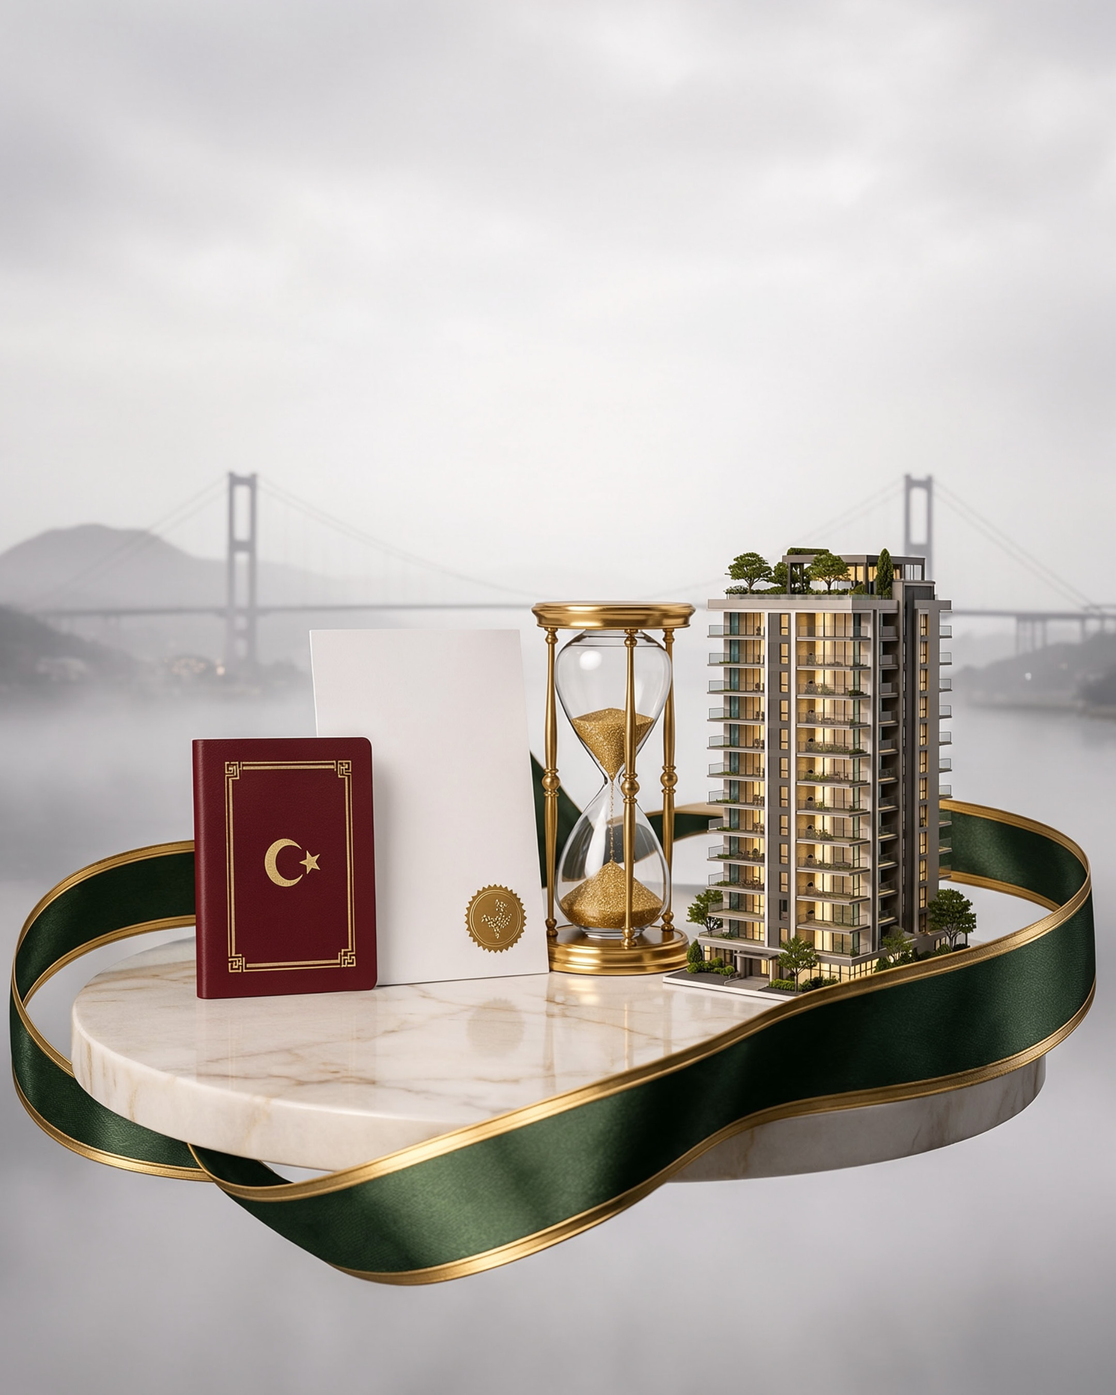
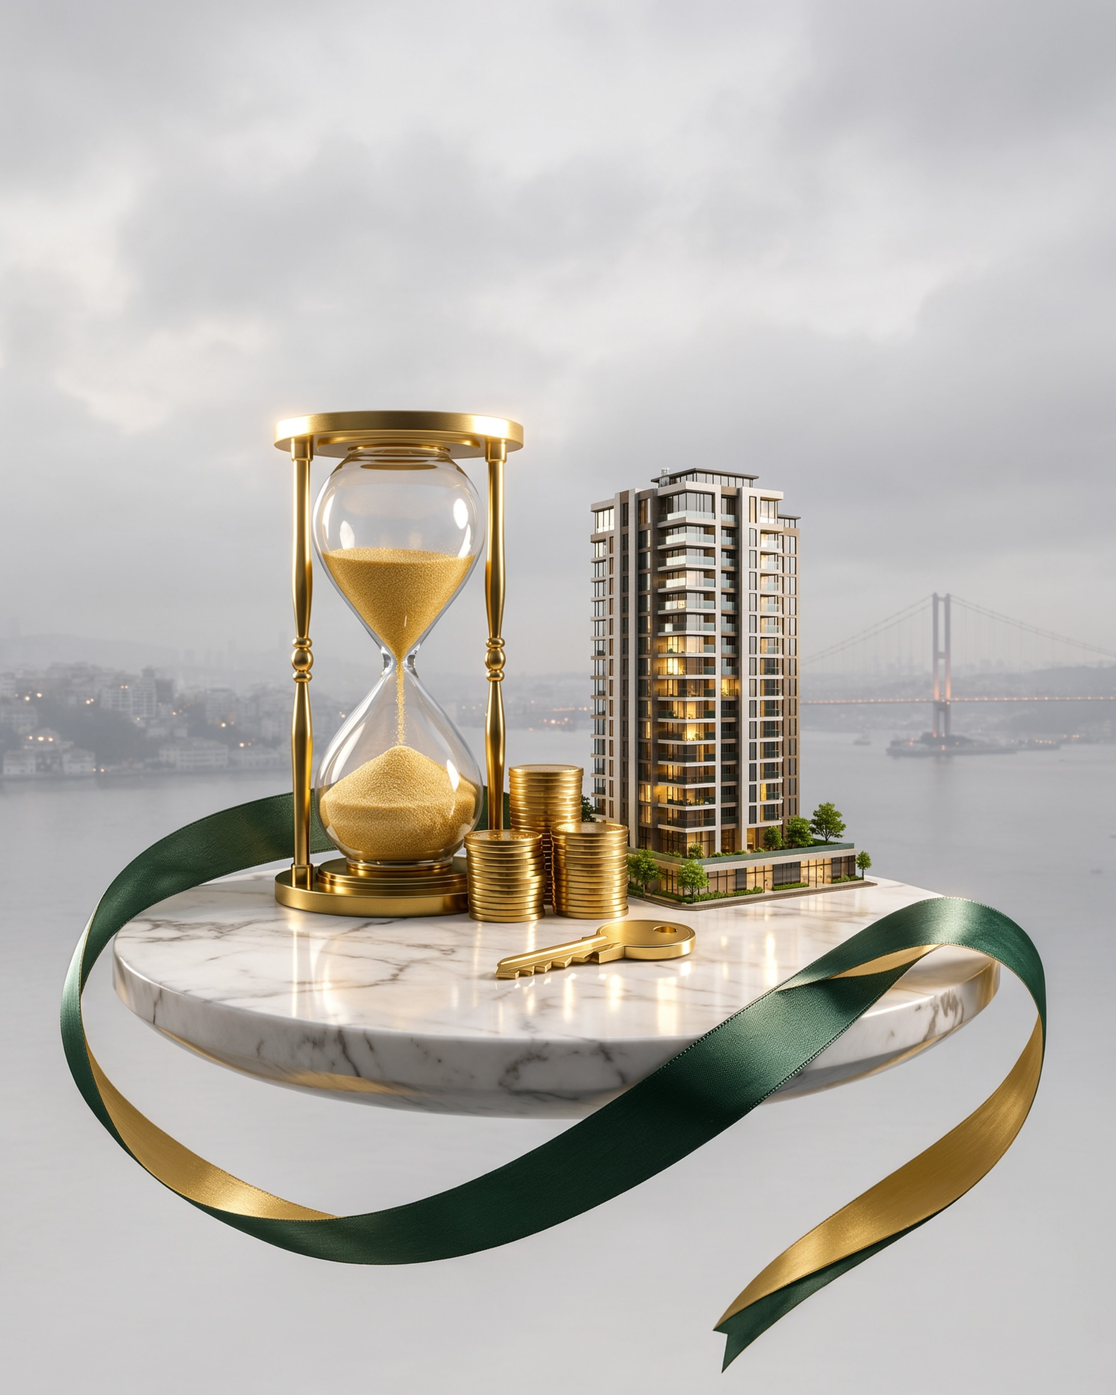
News posts: replace AI heroes that showed government documents
Owner's rule: no passports, title deeds, permits, seals, flags or
distorted currency symbols in AI images. Five heroes regenerated with
generic symbols; the tax hero's coin face smoothed. Rule added to the
news README and CLAUDE.md.

Claude-Session: https://claude.ai/code/session_01MgwYCFAPpF2XiPK7vaTHJc

diff --git a/CLAUDE.md b/CLAUDE.md
@@ -299,7 +299,7 @@
 - **منشور واحد باليوم بس (قرار المستخدم 2026-10-25: «خفف عدد المنشورات… منشور واحد كل صباح فقط»)**: من 2026-10-26 بس منشور الـ 09:00 (مشروع، تصميم A)، **بدون** منشور 14:00 ولا شرائح 21:00 ولا الستوري. `topics.mjs` صار يطلّع موضوع الصبح بس وبدون `story`، وREADME فيه سطر بأول «Steps for the daily session» بيغلب رسالة الـ Routine (`trig_01GoDvMMPVgdyFDvUQKze6jP` — تعليماته ما بتتعدّل إلا من جوّا الجلسة المخصصة، والجلسة بتاخد السكربتات من `main`). المراقبة `trig_01JpEtetfnowBWFdKXuguLNS` صارت مرة وحدة 9:20 («مراقبة منشور حضارة اليومي (الصبح)»). الـ crons تبع 14:00 و21:00 بالموقع ضلّوا وما بينشروا شي لما ما في منشور بوقتهم.
 - **ريلز كل صبح (قرار المستخدم 2026-10-28: «بدي اياك تنشر كل يوم ريلز الصبح، والمحتوى تنوع بين المشاريع والمحتوى التوعوي عن العقار وآلية الشراء والقوانين»؛ ✅ انتشر نفس اليوم بعد «انشر»، commit `260c339`)**: خطة جديدة `scripts/social/plan.json` «خطة المحتوى — نوفمبر 2026 (ريلز كل صباح)» من 2026-10-29 لـ 2026-11-30 (33 يوم، `reels: true`): منشور واحد 9:00 = **ريلز** (`"reel": true` بـ render.mjs: تصميم 1080×1920 + فيديو 8 ثواني تقريب بطيء بدون صوت؛ ffmpeg من `imageio-ffmpeg`)، يوم مشروع (16، تصميم A، أغلبها المشاريع الجديدة اللي ما انحكى عنها) ويوم توعية: آلية الشراء والمفاهيم (8، تصميم `list`)، القوانين (5، من بنود `laws.ts` المعتمدة بس + «معلومات عامة وليست استشارة قانونية»، شارة «قوانين العقار · Property laws»؛ نظام الدفع الآمن بـ 25/11 قبل ما يبلّش 1/12)، وتواصل معنا مرة بالأسبوع (4). `topics.mjs` بيطبع الملاحظة، وREADME فيه القاعدة فوق «Steps for the daily session». عيّنتين انفحصوا (وادي بانوراما A، رسوم الطابو list): `ok`. المراقبة 9:20 `trig_01JpEtetfnowBWFdKXuguLNS` ومراقبة المنظومة `trig_01KDgr63it2QLbhS1bN5dzJ4` صاروا يفحصوا إنه `post-1.json` فيه `video`. لما تخلص الخطة (30/11) لازم خطة ديسمبر. **ريلز 21/11 صار عن قرار إقامة المستثمرين 11994** (طلب المالك 2026-11-20: «ريلز عن القرار الصبح ومنشور كورسول… في منتصف النهار»)، فمنشور «سعر البيع في الطابو» (`law-declared-price`، بند `title-deed-declared-price`) انتقل لخطة ديسمبر؛ والكاروسيل (`scripts/social/extra/2026-11-21-investor-residence-carousel.json`، 7 شرائح) بينضاف كـ post-2 الساعة 14:00 بتذكير `trig_011UQwTKaDVSVtHXy9qkQcAj` (21/11 10:05). **حركات موشن جرافيك بالريلز (المالك 2026-10-28: «الريلز ما فيه ولا اي حركة… بدنا فيه حركات موشن جرافيك»؛ ✅ انتشر نفس اليوم بعد «انشر»، commits `c57dd74` + `441572f`)**: `REEL_MOTION` بـ `render.mjs` — الريلز صار **12 ثانية** (30 إطار بالثانية): الصور بتتحرك وبتتبدّل (`image.reelPhotos` = 2–3 صور زيادة من نفس المشروع، **لازم تنضاف دايماً** — قاعدة بـ README «Motion graphics»؛ بلا مخططات أو حمّامات)، الشعار والشارة بيدخلوا، العنوان العربي كلمة كلمة ثم الإنجليزي والخط الذهبي، مربعات الأرقام بتطلع والأرقام بتعدّ (السنوات والمدى لا)، بنود تصميم `list` بتنزلق، ولمعة على العنوان، ونبض أيقونة واتساب. الترميز `-crf 21 -maxrate 6M` (~2.3–3.6 ميغا). **السنوات ما بتعدّ** (`render.mjs`: أي رقم من 1500 لـ 2099؛ كانت 19xx/20xx بس، فـ «1881» كانت تعدّ — انصلحت 2026-11-10 بعد ريلز إضافي عن مقال فيشكهانه الساعة 21:00 بطلب المالك «اعمل منشور عن المقال»؛ ✅ انتشر بعد «انشر تصليح الريلز»). **منشور إضافي بنفس اليوم**: انسخ ملفات اليوم من `social-posts` لـ `scripts/social/out/<date>/`، وارسم منشورك لحاله وسمّيه `post-<n+1>` (وعدّل `image`/`video` بالـ JSON)، و`at` بوقت فاضي (14:00 أو 21:00)، و`posts.json` فيه منشورك بس، وبعدين `push-day.sh`.
 - **الصورة أولاً وكتابة أقل (قرار المالك 2026-11-10: «خفّف من النصوص المكتوبة وركّز على الصورة لأنها هي التي تشدّ انتباه المتابعين» ← «اعتمده وانشر»؛ من 2026-11-11)**: منشورات التصميم A **بدون مربعات أرقام (`stats`) وبدون شريط «معلومة» (`tip`)** — `render.mjs` بيكبّر الصورة لحالها (class `pf`: الصورة 1620px بالريلز و1060 بالفيد، والتعتيم بيبلّش تحت) وبيرفض `stats`/`tip` على التصميم A (الشرائح مستثناة). **العنوان لازم يقول شو المشروع ووين** (المالك: «العنوان صار عام، الناس ما بتعرف ايش حياة فلورا»): الاسم + نوع المساكن + إسطنبول أو المنطقة، متل «حياة فلورا: شقق عائلية في إسطنبول بضمان إملاك كونوت» / «Hayat Flora: family homes in Istanbul» — مش «X من الداخل» لحاله. الأرقام والتفاصيل بالنص القصير تحت الصورة. منشورات `list` (الخطوات، القوانين، التواصل) بتضل بـ 3 بنود قصيرة، وبدون `tip` إلا إذا الجملة القانونية بدها. القاعدة بأول «Steps for the daily session» بـ README. وتصليح بنفس اليوم: قيمة بوحدة إنجليزية (متل «10 min») كانت تنقلب لـ «min 10» — صارت LTR (class `l`). أول منشور بالشكل الجديد: «حياة فلورا» 2026-11-11 الساعة 14:00 (تذكير `trig_01RZoy9D3EqE1nyCzkjTN4hs` الساعة 8:40 بيضيفه بعد منشور الصبح؛ المواصفات بـ `scripts/social/extra/2026-11-11-hayat-flora-inside.json`).
-- **تصميم منشورات الأخبار والأسئلة (اعتمده المالك 2026-11-23: «اعتمدها هيك»)**: بعد ما بعت تصاميم منافس كبير على إنستغرام (امتلاك العقارية) — `scripts/social/news/` (README + `render-news.mjs`): صورة ثلاثية الأبعاد بالذكاء الاصطناعي لكل موضوع (Canva ← تصدير ← Wix ← `heroes/<id>.jpg`)، مربعات شفافة خضرا وذهبية ونقاط وغيوم، الشعار كبير مع HADARA REAL ESTATE، عنوان سطرين **عربي بس** بخط ثمانية Black (السطر الأول على شريط أخضر والتاني أخضر بكلمة ذهبية)، ورابط الموقع تحت **بدون خلفية**، وبدقة عالية (2160×2700، ونسخة 1440×1800 JPG). **للأخبار والأسئلة بس** (المشاريع بتضل بالتصميم A بصورها الحقيقية)، وصور الذكاء الاصطناعي ما بتنقدّم كمشروع حقيقي، وبدون صور سياسيين. **الخط بالمنشورات مسموح** (تأكيد المالك 2026-11-23: موافقة ثمانية بتشمل المنشورات). **تجربة أسبوعين (المالك: «تلات منشورات… يوم آه ويوم لا»)**: 6 منشورات بـ `schedule.json` كمنشور إضافي الساعة 14:00 جنب ريلز الصبح: 25/11 الجنسية بأكثر من عقار، 27/11 غرامة السعر الأقل بالطابو، 29/11 التمويل الادخاري ممنوع للأجانب، 1/12 ضريبة المسكن القيّم، 3/12 وثيقة مبلغ الجنسية 6 أشهر، 5/12 الإيجار السياحي 30 يوماً (كلها من بنود القوانين المعتمدة، وما انحكى عنها قبل بالسجل). كل يوم منهم تذكير للجلسة الرئيسية الساعة 10:40 (`trig_01HFabotZp6DgnUPxau7Brhi`، `trig_01UbAHJpu1ZmD5f7snCp5Lcv`، `trig_011SuEMEKTLvf2n1MQE5xdRD`، `trig_01XHTrXudroYXfWfr5KitPvN`، `trig_01AXoGJiyGjPDgHw6StnmF6A`، `trig_01SJVU35HRBr3f5Pu7C2hLT6`) بيضيف post-2 بـ `make-post.mjs` + `push-day.sh`، وتذكير 5/12 فيه تقييم التجربة. **خطة ديسمبر**: لا تكرّر مواضيعهم (ومنها «سعر البيع في الطابو» اللي كان مأجّل لديسمبر).
+- **تصميم منشورات الأخبار والأسئلة (اعتمده المالك 2026-11-23: «اعتمدها هيك»)**: بعد ما بعت تصاميم منافس كبير على إنستغرام (امتلاك العقارية) — `scripts/social/news/` (README + `render-news.mjs`): صورة ثلاثية الأبعاد بالذكاء الاصطناعي لكل موضوع (Canva ← تصدير ← Wix ← `heroes/<id>.jpg`)، مربعات شفافة خضرا وذهبية ونقاط وغيوم، الشعار كبير مع HADARA REAL ESTATE، عنوان سطرين **عربي بس** بخط ثمانية Black (السطر الأول على شريط أخضر والتاني أخضر بكلمة ذهبية)، ورابط الموقع تحت **بدون خلفية**، وبدقة عالية (2160×2700، ونسخة 1440×1800 JPG). **للأخبار والأسئلة بس** (المشاريع بتضل بالتصميم A بصورها الحقيقية)، وصور الذكاء الاصطناعي ما بتنقدّم كمشروع حقيقي، وبدون صور سياسيين. **⭐ ممنوع بصور الذكاء الاصطناعي أي مستند حكومي (قاعدة المالك 2026-11-24: «ما بدنا نصور جواز السفر التركي بطريقة غير صحيحة… او صورة الطابو او صورة اي مستند حكومي»، خوفاً من المساءلة القانونية بتركيا)**: لا جواز ولا طابو ولا هوية ولا إقامة ولا تصريح ولا قرار، ولا ختم أو شعار دولة أو علم أو عملة برمز مشوّه — رموز عامة بس (مباني، مفتاح، عملات سادة، ساعة رملية، ميزان، حصّالة، تقويم فاضي). الصور الخمسة الأولى كان فيها جواز وطابو ووثائق، فانبدّلت 2026-11-24 (وعملة ضريبة المسكن القيّم انمسح وجهها)؛ والقاعدة بـ `scripts/social/news/README.md`. **تنطبق كمان على الإعلانات والمنشورات التانية**. **الخط بالمنشورات مسموح** (تأكيد المالك 2026-11-23: موافقة ثمانية بتشمل المنشورات). **تجربة أسبوعين (المالك: «تلات منشورات… يوم آه ويوم لا»)**: 6 منشورات بـ `schedule.json` كمنشور إضافي الساعة 14:00 جنب ريلز الصبح: 25/11 الجنسية بأكثر من عقار، 27/11 غرامة السعر الأقل بالطابو، 29/11 التمويل الادخاري ممنوع للأجانب، 1/12 ضريبة المسكن القيّم، 3/12 وثيقة مبلغ الجنسية 6 أشهر، 5/12 الإيجار السياحي 30 يوماً (كلها من بنود القوانين المعتمدة، وما انحكى عنها قبل بالسجل). كل يوم منهم تذكير للجلسة الرئيسية الساعة 10:40 (`trig_01HFabotZp6DgnUPxau7Brhi`، `trig_01UbAHJpu1ZmD5f7snCp5Lcv`، `trig_011SuEMEKTLvf2n1MQE5xdRD`، `trig_01XHTrXudroYXfWfr5KitPvN`، `trig_01AXoGJiyGjPDgHw6StnmF6A`، `trig_01SJVU35HRBr3f5Pu7C2hLT6`) بيضيف post-2 بـ `make-post.mjs` + `push-day.sh`، وتذكير 5/12 فيه تقييم التجربة. **خطة ديسمبر**: لا تكرّر مواضيعهم (ومنها «سعر البيع في الطابو» اللي كان مأجّل لديسمبر).
 - **مراقبة الأسبوع المكثّف**: Routine "مراقبة منشورات حضارة اليومية" `trig_01JpEtetfnowBWFdKXuguLNS` (9:20 و21:20 إسطنبول، بيصحّي الجلسة الرئيسية) بيفحص `day.json` وعلامات `.done`/`.error` بالـ Blob. ✅ **قرار المستخدم 2026-10-06: نكمّل 3 منشورات باليوم (9 مشروع، 14 معلومة عقارية، 21 سؤال تفاعلي) لآخر الخطة (28/10)** — `plan.json` والـ crons الثلاثة ما احتاجوا تعديل. ✅ **قرار المستخدم 2026-10-08: المراقبة تضل شغّالة** (الـ Routine انسمّى "مراقبة منشورات حضارة اليومية" وانشال منه سطر التذكير بالقرار).
 - **التصميم مقفول (قرار المستخدم 2026-09-29)**: "التصميم A" تبع `render.mjs` بس، وسجل دائم `social/log.json` على `social-posts` بيمنع تكرار أي منشور/عنوان/صورة (قواعد "Design" بـ `scripts/social/README.md`). أول 9 منشورات بالتصميم القديم ما انتشروا.
 - **الموقع** `api/social-publish.ts` (+ `api/_lib/social.ts` المنطق، `api/_lib/socialRun.ts` الربط الحي): `GET` من Vercel Cron `0 7 * * *` (10:00 إسطنبول؛ الخطة المجانية بتشغّله بأي دقيقة جوّا الساعة) بـ `Authorization: Bearer $CRON_SECRET` (بدونه 401 لكل شي)، و`POST` من زر "انشر منشورات اليوم الآن" بالرئيسية `/admin` (`adminHome.social.*`، `data/socialPublish.ts`؛ توكن الأدمن + `is_admin()` متل `telegram-setup`). بيقرأ `day.json` ثم كل `post-<n>.json` من نسخة الفرع `https://kinci-byhadara-git-social-posts-hadara1.vercel.app` (`SOCIAL_SOURCE_URL` بيغطّي عليه) مع `x-vercel-protection-bypass` من `VERCEL_AUTOMATION_BYPASS_SECRET` (النسخ عليها تسجيل دخول Vercel). **الملف الناقص بيرجع 200 بصفحة index.html** (rewrite الموقع)، فبس JSON حقيقي بينحسب، والصورة لازم تبدأ بـ `FF D8 FF`. التاريخ بتوقيت إسطنبول. `maxDuration` 60.

diff --git a/scripts/social/news/README.md b/scripts/social/news/README.md
@@ -22,6 +22,12 @@
 - بتنولّد بالذكاء الاصطناعي من Canva (`generate-image`، `PORTRAIT_4_5`): موضوع المنشور كمجسّم
   ثلاثي الأبعاد على خلفية غيوم رمادية فاتحة، بلمسات خضرا وذهبية، **فراغ فوق** للعنوان، و**بدون كتابة**.
 - **ممنوع** تنقدّم كصورة مشروع حقيقي من مشاريعنا، وممنوع فيها أشخاص حقيقيين أو شعارات جهات.
+- **ممنوع أي مستند حكومي بالصورة (قاعدة المالك 2026-11-24، خوفاً من المساءلة القانونية بتركيا)**:
+  لا جواز سفر، ولا طابو، ولا هوية، ولا إقامة، ولا تصريح، ولا قرار رسمي، ولا أي ختم أو شعار دولة أو علم
+  أو عملة برموز مشوّهة — الذكاء الاصطناعي بيرسمهم غلط. بدالهم رموز عامة: مباني، مفتاح، عملات ذهبية
+  سادة، ساعة رملية، ميزان، حصّالة، شنطة، تقويم فاضي، آلة حاسبة، إشارة تحذير أو منع.
+  اكتب بطلب `generate-image`: no documents, no passports, no seals, no flags, no text.
+  وافحص الصورة مكبّرة قبل ما تستعملها (رمز مشوّه على عملة → امسحه بـ blur أو ولّد غيرها).
 - الدقة الكاملة: صفحة 1080×1350 جديدة بتصميم Canva «HADARA Blog Covers» (`DAHWQk3T6lk`) ←
   `update_fill` بالصورة ← commit ← `export-design` (png، العرض 2160) ← رابط التصدير لـ
   `UploadImageToWixSite` (موقع «HADARA Real Estate») ← تنزيل من `static.wixstatic.com`
